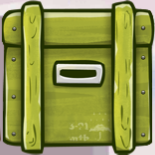
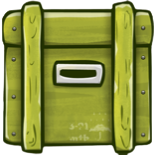
improvements

Changed region(s): [[0.0, 0.0, 1.0, 1.0]]

diff --git a/UI.py b/UI.py
@@ -17,10 +17,10 @@ def buildBoard(level):
     img_gray = cv.cvtColor(img_rgb, cv.COLOR_BGR2GRAY)
 
     for box in boxes:
-        template = cv.imread('images/boxes/'+box[1],0)
-        w, h = template.shape[::-1]
-        res = cv.matchTemplate(img_gray,template,cv.TM_CCOEFF_NORMED)
-        threshold = 0.8
+        template = cv.imread('images/boxes/'+box[1])
+        w, h = template.shape[0:2]
+        res = cv.matchTemplate(img_rgb,template,cv.TM_CCOEFF_NORMED)
+        threshold = 0.4
         loc = np.where(res >= threshold)
 
         for pt in zip(*loc[::-1]):
@@ -59,10 +59,15 @@ def draw_board(board,step, move):
         color = board.get_color(box)
         box_name = find_color(color)
 
-        x = box[0] * 155
+        x = box[0] * 155 #Change 155 to constant
         y = box[1] * 155
-        template = cv.imread('images/boxes/' + box_name)
-        img_rgb[x:x + 155, y:y + 155] = template
+        template = cv.imread('images/boxes_transparent/' + box_name,-1)
+        alpha_s = template[:, :, 3] / 255.0
+        alpha_l = 1.0 - alpha_s
+
+        for c in range(0, 3):
+            img_rgb[x:x + 155, y:y + 155, c] = (alpha_s * template[:, :, c] +
+                                    alpha_l * img_rgb[x:x + 155, y:y + 155, c])
 
     y1 = move[0][0] * 155
     x1 = move[0][1] * 155

diff --git a/main.py b/main.py
@@ -4,7 +4,7 @@ import UI
 
 #Game
 MAX_MOVES = 3 #Depends on the level
-board = UI.buildBoard('level_4.png')
+board = UI.buildBoard('level_1.png')
 
 board.print_board()
 print()
@@ -39,11 +39,11 @@ game_states.append([board, []])
 print("Inicia BFS:\n")
 moves_list = bfs(game_states)
 if len(moves_list) > 0:
-    print("Se encontró solucion:")
+    print("Se encontro solucion:")
     for move in moves_list:
         print(move)
 else:
-    print("No se encontró solución")
+    print("No se encontro solucion")
 
 
 for i, move in enumerate(moves_list):

diff --git a/README.md b/README.md
@@ -1,1 +1,8 @@
-# Move_the_Box_Solver
+# <img src="images/boxes/brown_box.png"  width="75"> Move the Box - Solver
+
+## Educational tool to solve the levels of the game move the box
+
+<img src="images/Initial_guide/res.png"  width="400">
+<img src="images/Initial_guide/res_0.png"  width="400">
+<img src="images/Initial_guide/res_1.png"  width="400">
+<img src="images/Initial_guide/res_2.png"  width="400">
